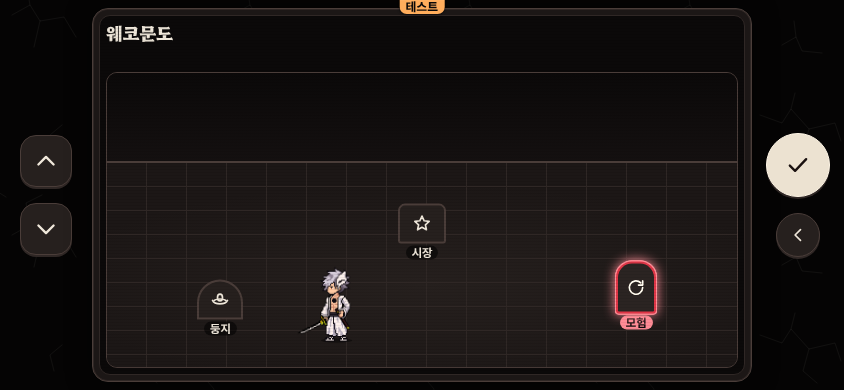
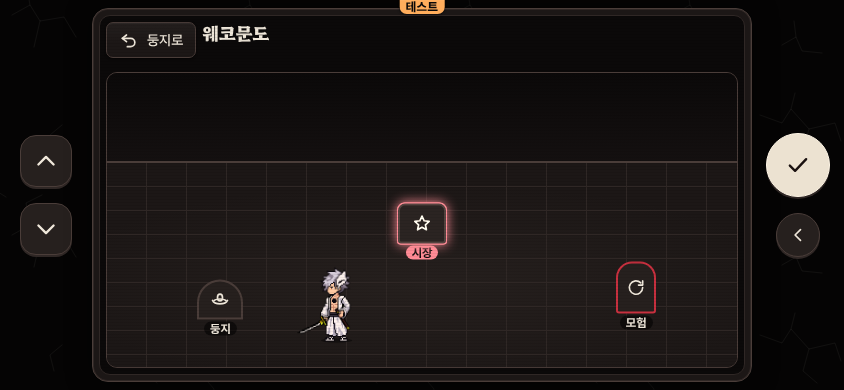
C.207 추가: 월드맵 왼쪽 위 [둥지로]/[대원실로] (GDD 129-1 2 같은 종류)
Claude-Session: https://claude.ai/code/session_01YVaigHCih9JzBR1TZYggA8

diff --git a/src/ui/worldMapView.ts b/src/ui/worldMapView.ts
@@ -7,7 +7,8 @@ import { roomOf, worldMapOf, WORLD_PLACES, type FactionConfig, type WorldPlace }
 import { artSkinOf, type SaveData } from '../game';
 import { el, icon, mountApp } from './bha/dom';
 import type { Device, SelectItem } from './bha/device';
-import { characterButton, layoutOnFloor, propButton, roomCharArt, sceneBox, type FloorEntry } from './bha/room';
+import { characterButton, layoutOnFloor, propButton, roomCharArt, sceneBox, spaceBackButton, type FloorEntry } from './bha/room';
+import { fixParticles } from '../engine/josa';
 
 export interface WorldMapHandlers {
   onHome: () => void;
@@ -22,9 +23,12 @@ export function worldMapView(dev: Device, faction: FactionConfig, save: SaveData
   const wm = worldMapOf(faction);
   const here = save.shared.wanderer.visit !== null;
 
-  // ── 위 한 줄: 지도 이름 ──
+  // ── 위 한 줄: 왼쪽 위 [둥지로]/[대원실로](다른 공간 화면과 같은 모양·자리 — GDD 129-1 2) · 지도 이름 ──
   const hud = el('header', 'bha-room__hud bha-worldmap__hud');
-  hud.append(el('h1', 'bha-worldmap__title', wm.name));
+  const homeLocked = hd.locked?.includes('home') ?? false;
+  const backBtn = spaceBackButton(homeLocked ? () => hd.onLocked?.('home') : hd.onHome, fixParticles(`${wm.places.home}(으)로`));
+  if (homeLocked) backBtn.setAttribute('aria-disabled', 'true'); // 첫 모험 강제 중 (GDD 131장 2)
+  hud.append(backBtn, el('h1', 'bha-worldmap__title', wm.name));
 
   // ── 장면: 방과 같은 물건 단추·바닥 배치 ──
   const scene = sceneBox(wm);
@@ -74,7 +78,7 @@ export function worldMapView(dev: Device, faction: FactionConfig, save: SaveData
   // 선택 순서 = DOM 순서(홈 → 시장 → 모험, 지도 왼쪽 → 오른쪽). 'visual'(위 → 아래)을 쓰면 가운데 위 시장이 먼저 와서 쓰지 않는다
   if (here) main.dataset.wanderer = '';
   // 기기 버튼 (GDD 122장): ▲▼ = 장소(홈 → 시장 → 모험), ✓ = 이동, 뒤로 = 홈. 첫 선택 = 모험 (옛 방 첫 선택 = 문, 100장 #11)
-  const items: SelectItem[] = WORLD_PLACES.map((p) => ({ el: btns.get(p)! }));
+  const items: SelectItem[] = [{ el: backBtn }, ...WORLD_PLACES.map((p) => ({ el: btns.get(p)! }))]; // 화면 위치 순서: 왼쪽 위 돌아가기 먼저
   btns.get('adventure')?.focus({ preventScroll: true });
   dev.setItems(items, main);
 }

diff --git a/src/ui/bha/worldmap.css b/src/ui/bha/worldmap.css
@@ -1,6 +1,7 @@
 /* 월드맵 (GDD 130장 2, C.204): 방과 같은 장면 틀 + 임시 하이앵글 지도 배경(위에서 비스듬히 본 땅·길). 그림(scene.worldmap)이 오면 배경이 덮는다. 색·간격은 토큰만 */
 .bha-lcd .bha-app.bha-room.bha-worldmap { padding: var(--bha-sp-3); }
-.bha-worldmap__hud { justify-content: flex-start; align-items: flex-start; }
+.bha-worldmap__hud { justify-content: flex-start; align-items: flex-start; gap: var(--bha-sp-3); }   /* [둥지로] 왼쪽 위 = 시장·온천과 같은 자리 (GDD 129-1 2) */
+.bha-worldmap [data-space-back][aria-disabled="true"] { opacity: 0.45; }
 .bha-worldmap__title { margin: 0; font-family: var(--bha-font-display); font-weight: var(--bha-fw-heavy); font-size: var(--bha-fs-xl); line-height: 1.15; white-space: nowrap; }
 /* 하늘(먼 곳) 얇게 + 땅 넓게: 원근으로 줄어드는 격자 = 위에서 내려다보는 느낌 */
 .bha-room--worldmap .bha-room__wall { height: 30%; background: linear-gradient(180deg, var(--bha-bg-0), var(--bha-bg-1)); }

diff --git a/tests/c207.test.ts b/tests/c207.test.ts
@@ -56,3 +56,13 @@ describe('131장 2·4 첫 모험 강제 (app·room·worldmap)', () => {
     expect(app).toContain("label: '홈 안내'");
   });
 });
+
+describe('129-1 2 같은 종류: 월드맵 왼쪽 위 [둥지로]/[대원실로] (마스터W 04:33)', () => {
+  const wm = readFileSync('src/ui/worldMapView.ts', 'utf8');
+  it('공용 spaceBackButton, 이름 = nestName, ▲▼ 맨 앞, 첫 모험 강제 중 잠김', () => {
+    expect(wm).toContain("spaceBackButton(homeLocked ? () => hd.onLocked?.('home') : hd.onHome, fixParticles(`${wm.places.home}(으)로`))");
+    expect(wm).toContain('const items: SelectItem[] = [{ el: backBtn }, ...WORLD_PLACES.map(');
+    expect(wm).toContain("btns.get('adventure')?.focus(");
+  });
+});
+

diff --git a/docs/GDD.md b/docs/GDD.md
@@ -4611,6 +4611,7 @@ data/
   3. ui-audit 에 '튜토리얼 안내 카드 회색 덮개 없음'·'공간 화면 방으로 자리 같음' 검사를 더한다.
 - 세션: **C.203 코딩149**(session_01YVaigHdUhkksUa9u7k2fWM, Opus, 보고처 = 마스터W).
 - **구현 완료 (C.203, v5.301, 코딩149)**: 1 = 튜토리얼 안내 틀(`tutorialOverlay`)의 기본을 **덮개 없음**(`.bha-tut.is-nodim` — 구멍 그림자 없음, 대상 없는 장면은 테두리도 없이 카드만)으로 바꾸고, 회색 덮개는 `replay` 일 때만(`data-replay`). 저절로 뜨는 안내 전부 = 첫 원정(first-run)·첫 포식(first-absorb)·첫 원정 뒤 '다음 할 일'(first-run-room)·타일 안내(tile-intro·tile-plan·tile-draw)·각본 전투·회복 안내·첫 전투 튜토리얼(저절로 뜬 것은 전투 '멈춘 모습' 흐림도 없음). 도움말에서 직접 연 '첫 원정 안내'·'타일 안내' 다시 보기·전투 도움말 '튜토리얼 다시 보기' = 덮개 그대로. 확인 창(예/아니오)·타일 뽑기 카드는 안내 카드가 아니라 그대로. 카드 배경은 원래 불투명(`bg-1` + 무늬)이라 읽힘 — 바꾸지 않음. 2 = 공용 `spaceBackButton`(`bha/room.ts`, '방으로 돌아가기'·i-return·small, `data-space-back`)을 장터·온천이 같이 씀. 장터 위 줄 = [방으로 돌아가기] → 이름·소식(왼쪽 위, 장터 화면 여백 sp-3 = 온천과 같은 (sp-3, sp-3) 자리), 기기 ▲▼ 순서 = 화면 위치 순서([방으로 돌아가기] → 온천 → 상점 → 떠돌이 상인), 첫 선택은 온천 그대로, 뒤로 = 방 그대로. 방에서 들어가는 따로 된 공간 화면은 장터·온천 둘뿐(문·제단·책장·상자는 메뉴 화면). 3 = ui-audit 모든 점검에 '튜토리얼 안내 회색 덮개'(data-replay 아닌 `.bha-tut` 구멍에 그림자) · '공간 화면 방으로 자리'(왼쪽 위 1/4 밖)·'공간 화면 방으로 자리 다름'(종족마다 처음 잰 자리와 1.5px 넘게 다름) + 화면 '튜토리얼 안내'(테스트 세이브에 first-run-room 을 띄움). 세이브·밸런스 그대로.
+- **추가 (C.207, 코딩150, 마스터W 10-30 04:33)**: 월드맵(130장)도 같은 종류 — 왼쪽 위 [둥지로]/[대원실로](공용 `spaceBackButton`, 이름 = nestName, 누르면 방), 제목은 그 오른쪽, 기기 ▲▼ 맨 앞(첫 선택은 모험 그대로), 첫 모험 강제(131장) 중엔 잠김. ui-audit 공간 화면 자리 검사가 월드맵도 잰다.
 
 ### 129-2. 튜토리얼 블록 연출 간격 · 회복 안내는 실제 조작으로 (v5.299, 사용자 2026-10-30 03:1x)
 - 사용자 원문:

diff --git a/docs/dev-log.md b/docs/dev-log.md
@@ -1123,4 +1123,4 @@ C.0 ~ C.120 은 `docs/dev-log-archive.md` 로 옮겼다(C.0~C.59 2026-10-20, C.6
 - 기획서 값 / 실제 값 / 이유: '모험 시작 화면에서는 출발만' — 첫 원정은 고정 길 튜토리얼이라 출발 준비 화면이 없음(월드맵 모험 = 바로 원정).
 - 실제 화면(`docs/captures/c207/proof.json`, `node scripts/c207-proof.cjs`): 두 종족 카드 11장(덮개·건너뛰기 없음), 강제 중 가방 터치·기기 뒤로 = 방 그대로 + 안내 띠, 월드맵 home·market 잠김·시장 눌러도 그대로, ✓(밖으로) ✓(모험) → 원정. 오류 0.
 - 테스트 새 `tests/c207.test.ts` 5개(c120·c203 각 1곳 맞춤). 캡처(1배 844×390): h-1 첫 카드 · h-2 밖으로 · h-3/s-3 첫 모험 강제(방 잠김) · h-4 월드맵(모험만).
-
+- 추가(마스터W 04:33·04:47): 월드맵 왼쪽 위 [둥지로]/[대원실로](spaceBackButton, ▲▼ 맨 앞, 첫 선택 모험, 첫 모험 강제 중 잠김) — 129-1 2 같은 종류. 캡처 `docs/captures/c204/h-2-worldmap.png`·`s-2-worldmap.png` 다시 찍음.
